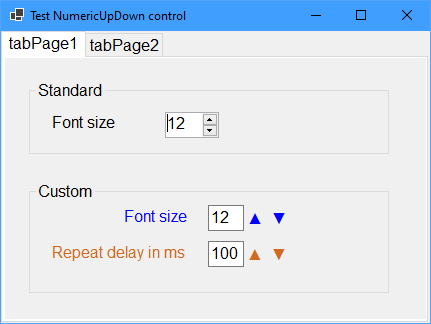
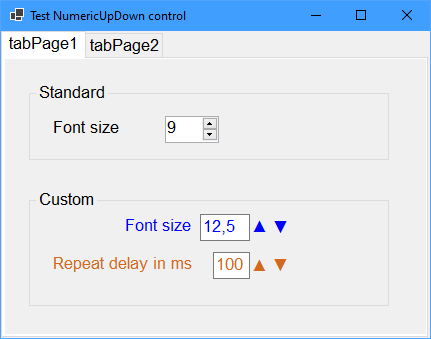
Updated example

diff --git a/Form1.Designer.cs b/Form1.Designer.cs
@@ -89,10 +89,15 @@ namespace WinForms_NumUpDown
             // customUpDown2
             // 
             this.customUpDown2.ButtonBackColor = System.Drawing.Color.Empty;
-            this.customUpDown2.ButtonForeColor = System.Drawing.Color.Gray;
+            this.customUpDown2.ButtonForeColor = System.Drawing.Color.Chocolate;
             this.customUpDown2.ButtonStyle = WinForms_NumUpDown.CustomUpDown.ButtonDisplay.Arrows;
             this.customUpDown2.DecimalPlaces = 0;
             this.customUpDown2.ForeColor = System.Drawing.Color.Chocolate;
+            this.customUpDown2.Increment = new decimal(new int[] {
+            1,
+            0,
+            0,
+            0});
             this.customUpDown2.Location = new System.Drawing.Point(16, 50);
             this.customUpDown2.Maximum = new decimal(new int[] {
             9999,
@@ -120,10 +125,15 @@ namespace WinForms_NumUpDown
             // customUpDown1
             // 
             this.customUpDown1.ButtonBackColor = System.Drawing.Color.Empty;
-            this.customUpDown1.ButtonForeColor = System.Drawing.Color.Gray;
+            this.customUpDown1.ButtonForeColor = System.Drawing.Color.Blue;
             this.customUpDown1.ButtonStyle = WinForms_NumUpDown.CustomUpDown.ButtonDisplay.Arrows;
-            this.customUpDown1.DecimalPlaces = 0;
+            this.customUpDown1.DecimalPlaces = 2;
             this.customUpDown1.ForeColor = System.Drawing.Color.Blue;
+            this.customUpDown1.Increment = new decimal(new int[] {
+            5,
+            0,
+            0,
+            65536});
             this.customUpDown1.Location = new System.Drawing.Point(72, 20);
             this.customUpDown1.Maximum = new decimal(new int[] {
             30,
